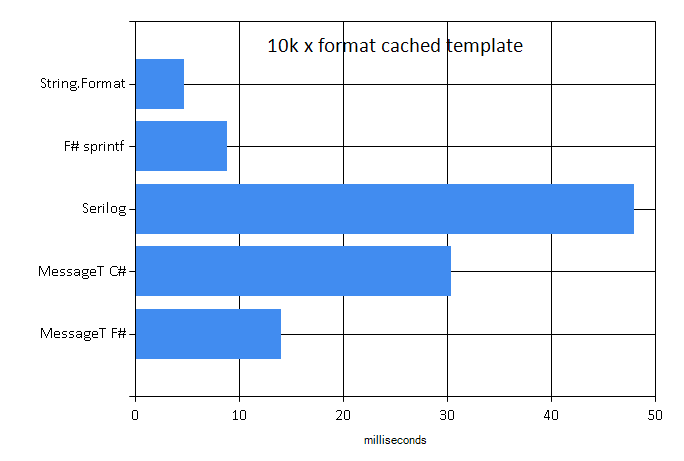
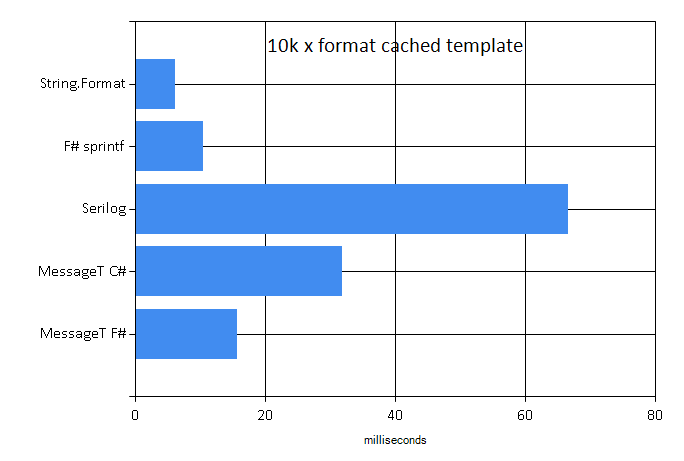
Update generated documentation for version 1.0.1-beta

diff --git a/performance.html b/performance.html
@@ -34,7 +34,16 @@
           
 <h1><a name="Performance" class="anchor" href="#Performance">Performance</a></h1>
 
-<p>TODO</p>
+<p><img src="img/perfcharts/10k x 3 named destr (AL10).png" alt="1" />
+<img src="img/perfcharts/10k x 3 named destr.png" alt="2" />
+<img src="img/perfcharts/10k x 3 posit. ints (AR5).png" alt="3" />
+<img src="img/perfcharts/10k x 3 posit. ints fmt.png" alt="4" />
+<img src="img/perfcharts/10k x 5 posit. strings.png" alt="5" />
+<img src="img/perfcharts/10k x format cached template.png" alt="6" />
+<img src="img/perfcharts/10k x Format stringify Version.png" alt="7" />
+<img src="img/perfcharts/10k x named 1x string.png" alt="8" />
+<img src="img/perfcharts/10k x named 2x string.png" alt="9" />
+<img src="img/perfcharts//10k x same pos 7 destr.png" alt="10" /></p>
 
 
         </div>
@@ -54,6 +63,7 @@
 
             <li class="nav-header">Documentation</li>
             <li><a href="/MessageTemplates/reference/index.html">API Reference</a></li>
+            <li><a href="/MessageTemplates/performance.html">Performance</a></li>
           </ul>
         </div>
       </div>

diff --git a/index.html b/index.html
@@ -156,6 +156,7 @@ redistribution for both commercial and non-commercial purposes. For more informa
 
             <li class="nav-header">Documentation</li>
             <li><a href="/MessageTemplates/reference/index.html">API Reference</a></li>
+            <li><a href="/MessageTemplates/performance.html">Performance</a></li>
           </ul>
         </div>
       </div>

diff --git a/tutorial.html b/tutorial.html
@@ -378,6 +378,7 @@ should be fixed in the API itself.</p>
 
             <li class="nav-header">Documentation</li>
             <li><a href="/MessageTemplates/reference/index.html">API Reference</a></li>
+            <li><a href="/MessageTemplates/performance.html">Performance</a></li>
           </ul>
         </div>
       </div>

diff --git a/license.html b/license.html
@@ -264,6 +264,7 @@ third-party archives.</p>
 
             <li class="nav-header">Documentation</li>
             <li><a href="/MessageTemplates/reference/index.html">API Reference</a></li>
+            <li><a href="/MessageTemplates/performance.html">Performance</a></li>
           </ul>
         </div>
       </div>

diff --git a/release-notes.html b/release-notes.html
@@ -55,6 +55,7 @@
 
             <li class="nav-header">Documentation</li>
             <li><a href="/MessageTemplates/reference/index.html">API Reference</a></li>
+            <li><a href="/MessageTemplates/performance.html">Performance</a></li>
           </ul>
         </div>
       </div>
